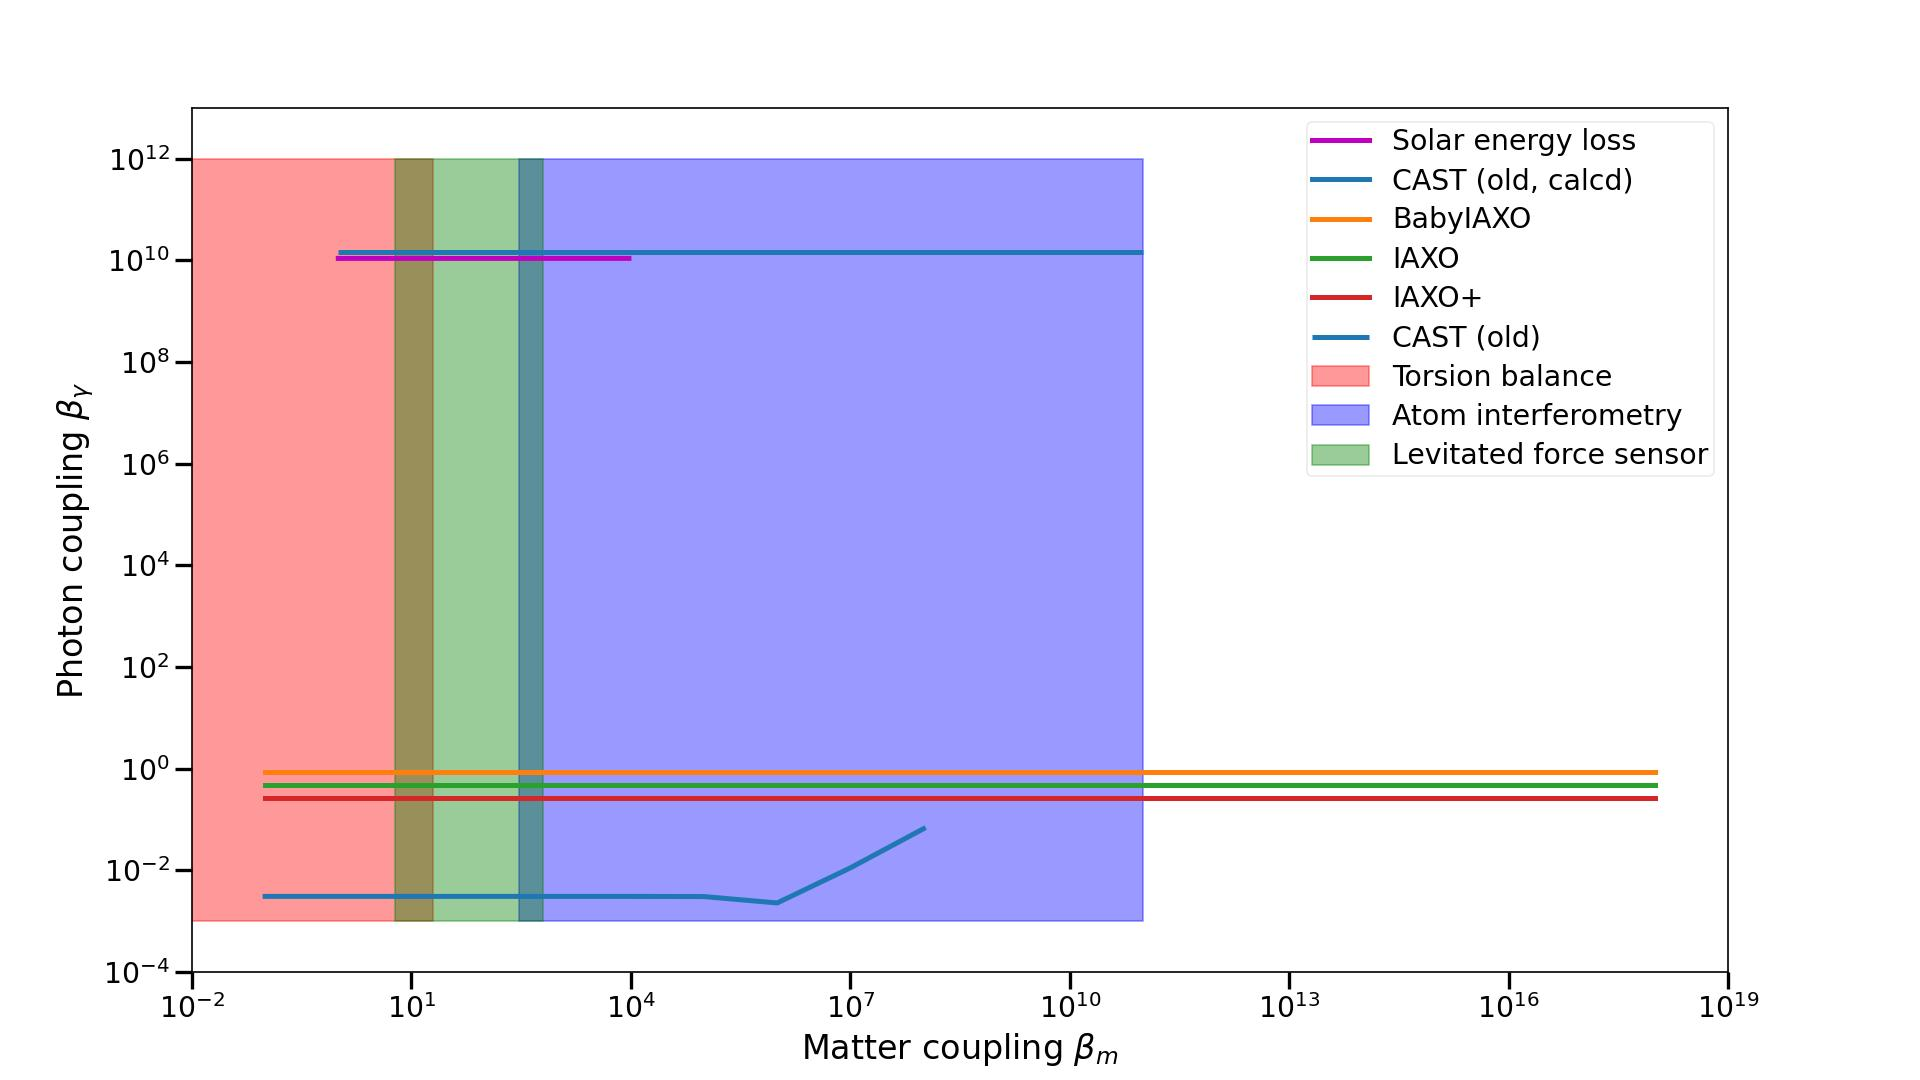
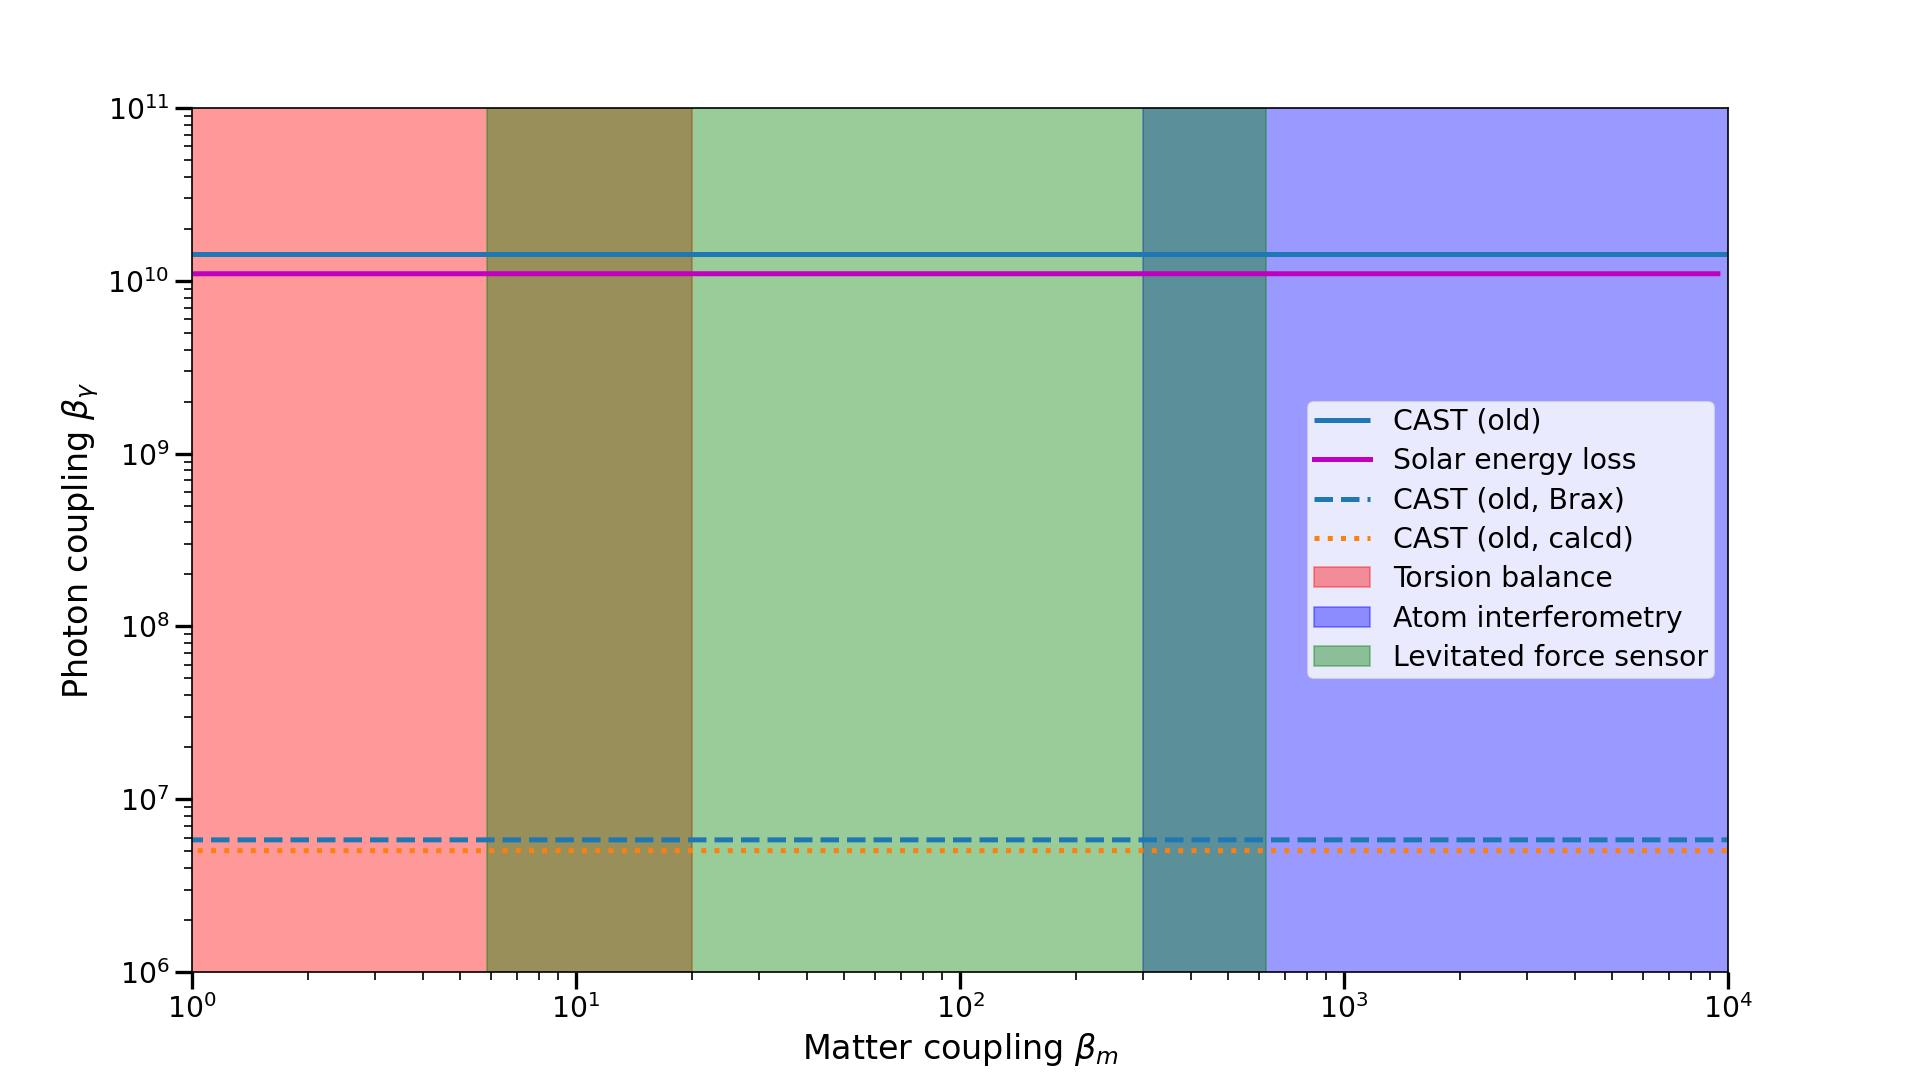
casimir-style limits

diff --git a/scalar-Bfield.cpp b/scalar-Bfield.cpp
@@ -18,7 +18,7 @@ double zeta3 = 1.202056903159594;				// Riemann zeta(3)
 double dSolar = 149.5978707e9/m2eV;				// mean earth-sun distance [eV-1]
 double rSolar = 6.957e8/m2eV;					// solar radius [eV-1]
 double B0 = 3e3*T2eV;							// radiative zone max B [eV2]
-double B1 = 30*T2eV;//50*T2eV;							// tachocline max B [eV2]
+double B1 = 50*T2eV;							// tachocline max B [eV2]
 double B2 = 3*T2eV;								// outer region max B [T]
 double r0 = 0.712*rSolar;						// [eV-1]
 double r1 = 0.732*rSolar;						// [eV-1]
@@ -214,7 +214,7 @@ void Eloss() {
 	vector<double> mass;
 	vector<double> Q;
 	double dw = 1e3;
-	for( double Bm = 1e0; Bm < 1e8; Bm*=10 ) {
+	for( double Bm = 1e-1; Bm < 1e8; Bm*=10 ) {
 		double total = 0;
 		for( double w = dw; w < 2e4; w+=dw ){
 			total += 0.5*dw*( (w+dw)*solarIntg(w+dw,Bm) + w*solarIntg(w,Bm) );
@@ -225,7 +225,7 @@ void Eloss() {
 		cout<<"Bm = "<<Bm<<endl;
 	}
 	// write to file
-	string name = "data/scalarB_Eloss_cham.dat";
+	string name = "data/scalarB_Eloss_tach.dat";
 	write2D( name , mass, Q );
 }
 
@@ -279,12 +279,91 @@ void contour() {
 // get old CAST back-converted flux for old limits
 // input detector params
 // units eV3/keV
-void CASTold() {
+void CAST_old() {
 	vector<double> beta, flux;
 	string model = "CAST_old";
 	n = 1;
 	E = 2.4e-3;
-	double Bm = 1e-2;
+	double Emin = 1e3;
+	double Emax = 2e4;
+	double B_cast = 9*T2eV;		// babyIAXO B-field [eV2]
+	double L_cast = 9.26/m2eV;	// babyIAXO length [eV-1]
+	double P = pow(B_cast*L_cast/2/Mpl, 2);	// back conversion prob for low m
+	double dw = 1e1;
+	double w1, w2, r1, r2 = 0;
+	for( double Bm = 1e-1; Bm <= 1e8; Bm*=10 ) {
+		double total = 0;
+		for( double w = Emin; w < Emax; w+=dw ){
+			total += 0.5*dw*(solarIntg(w+dw,Bm)+solarIntg(w,Bm));
+		}
+		beta.push_back(Bm);
+		flux.push_back(total/4/pi/dSolar/dSolar / ((Emax-Emin)/1e3));	// eV3 keV-1
+		cout << "Bm = " << Bm << " of 1e18" << endl;
+	}
+	// write to file
+	string name = "data/"+model+"_totalflux.dat";
+	write2D( name, beta, flux );
+}
+
+// Brax integral
+// dimensionless
+double Ibrax( double a ) {
+	return sqrt(pi/2)*( sqrt(a + sqrt(a*a + 4)) - sqrt(2*a) );
+}
+
+
+// Brax tachocline calculation
+// differential emission rate (d2N/dwdr)
+// units eV Bg-2
+double Brax( int c, double Bm, double w ){
+	if( r[c]/rSolar < 0.695 ) { return 0; }
+	if( r[c]/rSolar > 0.705 ) { return 0; }
+	double Tc = T[c];
+
+	// tachocline values
+	double mfp_t = 0.3/100/m2eV;				// tachocline mean free path [eV-1]
+	double flux_t = 1e21*1e4*m2eV*m2eV*s2eV;	// tachocline photon flux [eV3]
+	double n_t = 2*zeta3*Tc*Tc*Tc/pi/pi;		// tachocline photon density [eV3]
+
+	double mg2 = 4*pi*alpha*ne[c]/me;			// assume mg2 = wp2 [eV2]
+	double ms2 = mCham2(c,Bm);					// chameleon mass2 [eV2]
+	//double ms2 = Bm*Bm;						// fixed scalar mass2 [eV2]
+	if( w*w <= mg2 ) { return 0; }
+	if( w*w <= ms2 ) { return 0; }
+	double kgamma = sqrt(w*w - mg2);			// photon momentum [eV]
+	double kphi = sqrt(w*w - ms2);				// scalar momentum [eV]
+	double q = abs(kgamma - kphi);				// mtm transfer [eV]
+	double B = Bfield(c);						// solar B field [eV2]
+	//B = 30*T2eV;
+
+	return 2/(pi*Mpl*Mpl) * pow(r[c], 2) * B*B /(exp(w/T[c]) - 1)
+			* pow(w*w/mg2, 2) * flux_t/(2*pi*n_t*mfp_t)
+			* sqrt(q/2/s2eV) * Ibrax(2/mfp_t/q);	// [eV Bg-2]
+}
+
+
+// integral over solar volume, for a given scalar mass and energy
+double solarIntgBrax( double w, double Bm ) {
+	double total = 0;
+	for( int c = 0; c < r.size() - 1; c++ ) {
+		// tachoclining
+		if(r[c]/rSolar < 0.695) { continue; }
+		else if(r[c]/rSolar > 0.705) { continue; }
+
+		total += 0.5 * (r[c+1] - r[c]) * (Brax(c+1, Bm, w) + Brax(c, Bm, w));
+		//cout<<"r = "<<r[c]/rSolar<<"	dN/dw = "<<Brax(c, Bm, w)<<endl;
+	}
+	return total;
+}
+
+// get old CAST back-converted flux for old limits
+// input detector params
+// units eV3/keV
+void CAST_Brax() {
+	vector<double> beta, flux;
+	string model = "CAST_Brax";
+	n = 1;
+	E = 2.4e-3;
 	double Emin = 1e3;
 	double Emax = 2e4;
 	double B_cast = 9*T2eV;		// babyIAXO B-field [eV2]
@@ -292,10 +371,10 @@ void CASTold() {
 	double P = pow(B_cast*L_cast/2/Mpl, 2);
 	double dw = 1e1;
 	double w1, w2, r1, r2 = 0;
-	for( double Bm = 1e-1; Bm <= 1e8; Bm*=10 ) {
+	for( double Bm = 1e-1; Bm <= 1e12; Bm*=10 ) {
 		double total = 0;
 		for( double w = Emin; w < Emax; w+=dw ){
-			total += 0.5*dw*(solarIntg(w+dw,Bm)+solarIntg(w,Bm));
+			total += 0.5*dw*(solarIntgBrax(w+dw,Bm)+solarIntgBrax(w,Bm));
 		}
 		beta.push_back(Bm);
 		flux.push_back(total/4/pi/dSolar/dSolar / ((Emax-Emin)/1e3));
@@ -307,43 +386,13 @@ void CASTold() {
 }
 
 
-// Brax tachocline calculation
-// differential emission rate (d2N/dwdr)
-// units eV Bg-2
-double brax( int c, double Bm ){
-	if( r[c] < 0.695 ) { return 0; }
-	if( r[c] > 0.705 ) { return 0; }
-	double Tc = T[c];
-
-	// tachocline values
-	double mfp_t = 0.3/100/m2eV;					// tachocline mean free path [eV-1]
-	double flux_t = 1e21*1e4*m2eV*m2eV*s2eV;		// tachocline photon flux [eV3]
-	double n_t = 2*zeta3*Tc*Tc*Tc/pi/pi;			// tachocline photon density [eV3]
-
-	double mg2 = 4*pi*alpha*ne[c]/me;			// assume mg2 = wp2 [eV2]
-	double ms2 = mCham2(c,Bm);					// chameleon mass2 [eV2]
-	//double ms2 = Bm*Bm;							// fixed scalar mass2 [eV2]
-	if( w*w <= mg2 ) { return 0; }
-	if( w*w <= ms2 ) { return 0; }
-	double kgamma = sqrt(w*w - mg2);			// photon momentum [eV]
-	double kphi = sqrt(w*w - ms2);				// scalar momentum [eV]
-	double q = abs(kgamma - kphi);				// mtm transfer [eV]
-	double B = Bfield(c);						// solar B field [eV2]
-
-
-	return 2/(pi*Mpl*Mpl) * pow(r[c], 2) * B*B /(exp(w/T[c]) - 1)
-			* pow(w/m, 4) * flux_t/(2*pi*n_t*mfp_t) 
-			* sqrt(q*ls/2) * Ibrax(2/mfp_t/q);	// [eV Bg-2]
-}
-
-
 int main() { 
 	// convert Gaunt factor Theta to T in eV
 	for( int i = 1; i < 201; i++ ) { z1[0][i] = z1[0][i] * me; }
 	for( int i = 1; i < 201; i++ ) { z2[0][i] = z2[0][i] * me; }
 
 	//profile();
-	CASTold();
+	CAST_Brax();
 	//Eloss();
 	//contour();
 	return 0;

diff --git a/plotCham.py b/plotCham.py
@@ -37,7 +37,7 @@ plt.style.use("style.txt")	# import plot style
 fig2 = plt.figure(1)	# display is 1920 x 1080 (16:9)
 ax2 = fig2.add_axes((.1,.1,.8,.8))
 #ax1.set(xlim=(1e0, 1e4), ylim=(1e8, 1e11))
-#ax2.set(xlim=(1e0, 1e4), ylim=(1e-1, 1e11))
+ax2.set(xlim=(1e0, 1e4), ylim=(1e6, 1e11))
 
 # add IAXO bits
 path = "data/limits/chamstats"
@@ -64,30 +64,36 @@ path = "data/limits/chamstats"
 ############### n=1 ####################
 ########################################
 
+# add CAST
+ax2.hlines(5.74e10 / 4, 1e0, 1e11, ls='-', label='CAST (old)')
+
 dat = loadtxt("data/primakoff_total_Eloss_n1.dat")
+#dat = loadtxt("data/primakoff_total_Eloss_tach.dat")
 Bg = sqrt(Lsolar*3/100/dat[:,1])
 ax2.plot(dat[:,0],Bg, ls='-', color='m',label='Solar energy loss')
 
 
 #dat = loadtxt("data/CAST_totalflux.dat")
+dat = loadtxt("data/CAST_Brax_totalflux.dat")
+Bg = power(divide(castbkg,dat[:,1]), 1/4)
+ax2.plot(dat[:,0],Bg, ls='--', label='CAST (old, Brax)')
+
+#dat = loadtxt("data/CAST_totalflux.dat")
 dat = loadtxt("data/CAST_old_totalflux.dat")
 Bg = power(divide(castbkg,dat[:,1]), 1/4)
-ax2.plot(dat[:,0],Bg, ls='-', label='CAST (old, calcd)')
+ax2.plot(dat[:,0],Bg, ls=':', label='CAST (old, calcd)')
 
 dat = loadtxt("data/babyIAXO_totalflux.dat")
 Bg = power(divide(babybkg,dat[:,1]), 1/4)
-ax2.plot(dat[:,0],Bg, ls='-', label='BabyIAXO')
+#ax2.plot(dat[:,0],Bg, ls='-', label='BabyIAXO')
 
 dat = loadtxt("data/baseIAXO_totalflux.dat")
 Bg = power(divide(basebkg,dat[:,1]), 1/4)
-ax2.plot(dat[:,0],Bg, ls='-', label='IAXO')
+#ax2.plot(dat[:,0],Bg, ls='-', label='IAXO')
 
 dat = loadtxt("data/plusIAXO_totalflux.dat")
 Bg = power(divide(plusbkg,dat[:,1]), 1/4)
-ax2.plot(dat[:,0],Bg, ls='-', label='IAXO+')
-
-# add CAST
-ax2.hlines(5.74e10 / 4, 1e0, 1e11, ls='-', label='CAST (old)')
+#ax2.plot(dat[:,0],Bg, ls='-', label='IAXO+')
 
 # add other limits
 ax2.add_patch( Rectangle( (2e1, 1e-3), -1e11, 1e12, color='r', alpha=0.4, label='Torsion balance') )
